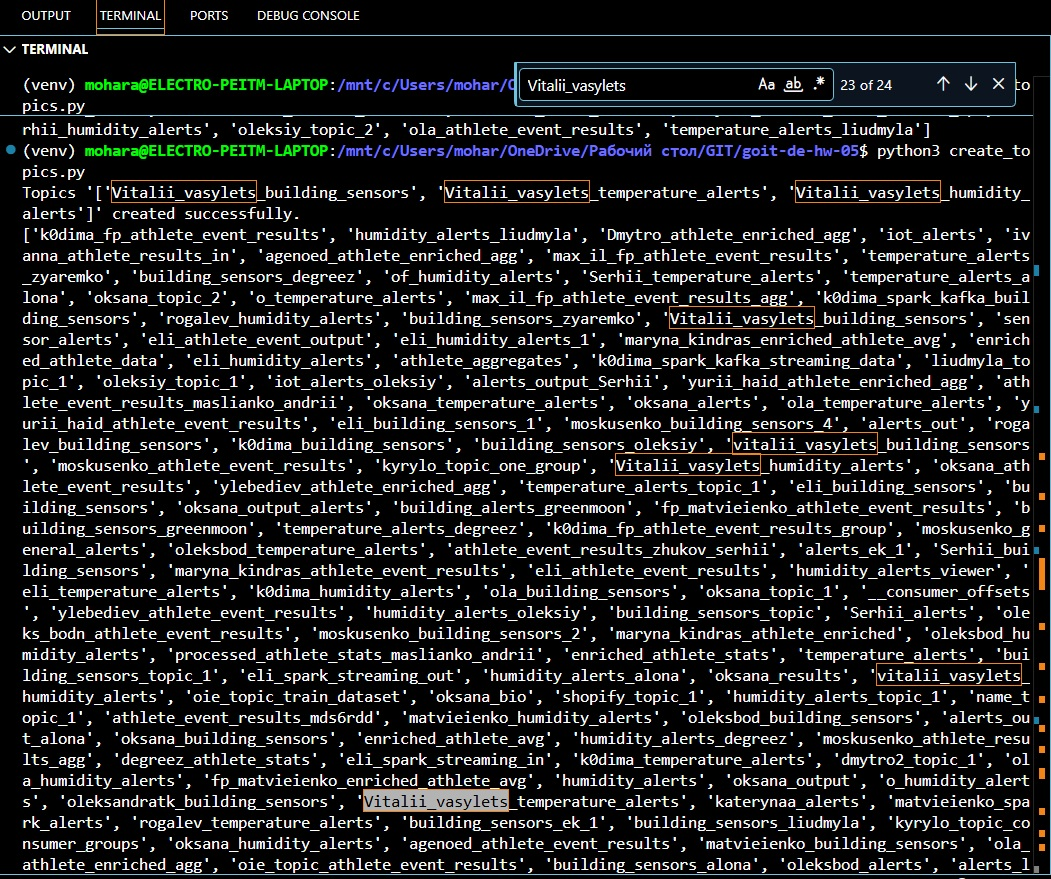
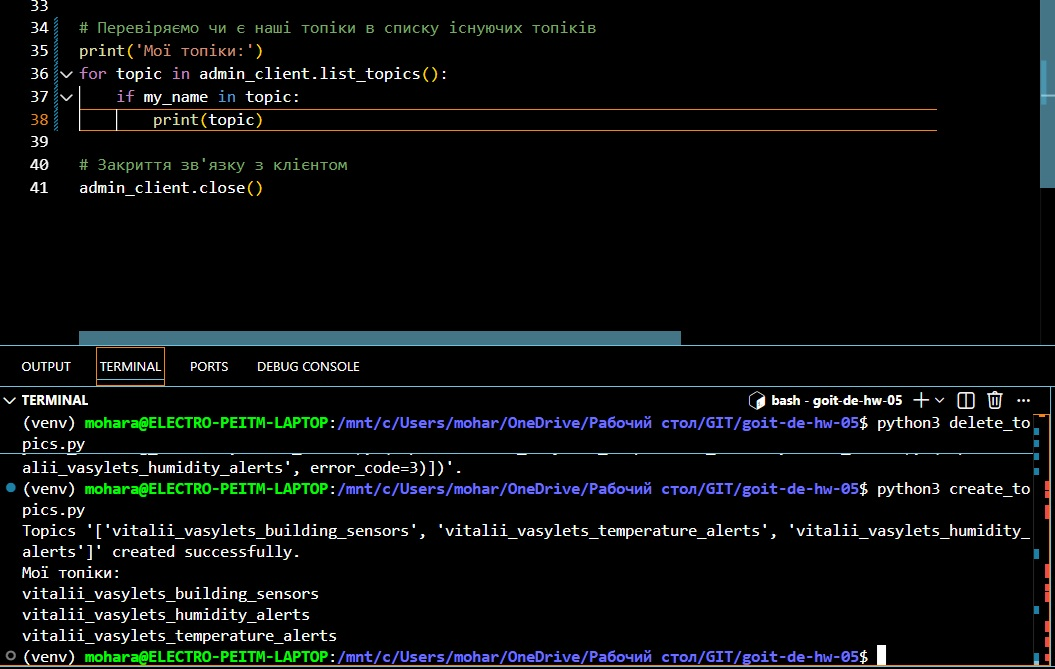
make task 2 & 3

diff --git a/sensor_consumer.py b/sensor_consumer.py
@@ -1,0 +1,80 @@
+from kafka import KafkaConsumer, KafkaProducer
+from configs import kafka_config
+import json
+import uuid
+
+# Створення Kafka Consumer
+consumer = KafkaConsumer(
+    bootstrap_servers=kafka_config['bootstrap_servers'],
+    security_protocol=kafka_config['security_protocol'],
+    sasl_mechanism=kafka_config['sasl_mechanism'],
+    sasl_plain_username=kafka_config['username'],
+    sasl_plain_password=kafka_config['password'],
+    value_deserializer=lambda v: json.loads(v.decode('utf-8')),
+    key_deserializer=lambda v: json.loads(v.decode('utf-8')),
+    auto_offset_reset='earliest',  # Зчитування повідомлень з початку
+    enable_auto_commit=True,       # Автоматичне підтвердження зчитаних повідомлень
+    group_id='my_consumer_group_3'   # Ідентифікатор групи споживачів
+)
+
+# Створення Kafka Producer
+producer = KafkaProducer(
+    bootstrap_servers=kafka_config['bootstrap_servers'],
+    security_protocol=kafka_config['security_protocol'],
+    sasl_mechanism=kafka_config['sasl_mechanism'],
+    sasl_plain_username=kafka_config['username'],
+    sasl_plain_password=kafka_config['password'],
+    value_serializer=lambda v: json.dumps(v).encode('utf-8'),
+    key_serializer=lambda v: json.dumps(v).encode('utf-8')
+)
+
+# Назва топіку
+my_name = "vitalii_vasylets"
+topic__building_sensors_name = f'{my_name}_building_sensors'
+topic_temperature_alerts_name = f'{my_name}_temperature_alerts'
+topic_humidity_alerts_name = f'{my_name}_humidity_alerts'
+
+def process_message(message):
+    try:
+        data = message.value
+
+        sensor_id = data.get('sensor_id')
+        temperature = data.get('temperature')
+        humidity = data.get('humidity')
+
+        if temperature > 40:
+            alert_data = {
+                **data,
+                "message": f"Temperature {temperature} exceeds 40 degrees Celsius"
+            }
+            producer.send(topic_temperature_alerts_name, key=str(uuid.uuid4()), value=alert_data)
+            producer.flush()
+            print(f"Alert message from sensor {sensor_id} with temperature {temperature} sent successfully.")
+    
+        if humidity < 20 or humidity > 80:
+            alert_data = {
+                **data,
+                "message": f"Humidity {humidity} exceeds 80% or reaches less than 20%"
+            }
+            producer.send(topic_humidity_alerts_name, key=str(uuid.uuid4()), value=alert_data)
+            producer.flush()
+            print(f"Alert message from sensor {sensor_id} with humidity {humidity} sent successfully.")
+
+        print(f"Message from sensor {sensor_id} with temperature {temperature} & humidity {humidity} processed successfully" )
+    except Exception as e:
+        print(f"An error occurred: {e}")
+
+# Підписка на тему
+consumer.subscribe([topic__building_sensors_name])
+
+print(f"Subscribed to topic '{topic__building_sensors_name}'")
+
+# Обробка повідомлень з топіку
+try:
+    for message in consumer:
+        process_message(message)
+except Exception as e:
+    print(f"An error occurred: {e}")
+finally:
+    consumer.close()  # Закриття consumer
+

diff --git a/sensor_producer.py b/sensor_producer.py
@@ -1,0 +1,43 @@
+from kafka import KafkaProducer
+from configs import kafka_config
+import json
+import uuid
+import time
+import random
+
+# Створення Kafka Producer
+producer = KafkaProducer(
+    bootstrap_servers=kafka_config['bootstrap_servers'],
+    security_protocol=kafka_config['security_protocol'],
+    sasl_mechanism=kafka_config['sasl_mechanism'],
+    sasl_plain_username=kafka_config['username'],
+    sasl_plain_password=kafka_config['password'],
+    value_serializer=lambda v: json.dumps(v).encode('utf-8'),
+    key_serializer=lambda v: json.dumps(v).encode('utf-8')
+)
+
+# Назва топіку
+my_name = "vitalii_vasylets"
+topic_name = f'{my_name}_building_sensors'
+
+#  Генерація id датчика
+sensor_id = int(uuid.uuid4().hex[:8], 16)
+
+for i in range(1000):
+    # Відправлення повідомлення в топік
+    try:
+        data = {
+            "sensor_id":sensor_id,
+            "timestamp": time.time(),  # Часова мітка
+            "temperature": random.randint(25, 45),  # Випадкове значення температури
+            "humidity": random.randint(15, 85)  # Випадкове значення вологості
+        }
+        producer.send(topic_name, key=str(uuid.uuid4()), value=data)
+        producer.flush()
+        print(f"Sensor {sensor_id} sent to topic '{topic_name}' the data package № {i} successfully.")
+        time.sleep(2)
+    except Exception as e:
+        print(f"An error occurred: {e}")
+
+producer.close()  # Закриття producer
+

diff --git a/delete_topics.py b/delete_topics.py
@@ -1,0 +1,29 @@
+from kafka.admin import KafkaAdminClient
+from configs import kafka_config
+
+# Створення клієнта
+admin_client = KafkaAdminClient(
+    bootstrap_servers=kafka_config['bootstrap_servers'],
+    security_protocol=kafka_config['security_protocol'],
+    sasl_mechanism=kafka_config['sasl_mechanism'],
+    sasl_plain_username=kafka_config['username'],
+    sasl_plain_password=kafka_config['password']
+)
+
+# Список топіків, які ви хочете видалити
+my_name = "vitalii_vasylets"
+topics_to_delete = [
+    f'{my_name}_building_sensors',
+    f'{my_name}_temperature_alerts',
+    f'{my_name}_humidity_alerts'
+]
+
+try:
+    # Видалення топіків
+    admin_client.delete_topics(topics=topics_to_delete)
+    print(f"Топіки {topics_to_delete} успішно видалено.")
+except Exception as e:
+    print(f"Помилка при видаленні: {e}")
+
+# Закриття клієнта
+admin_client.close()

diff --git a/create_topics.py b/create_topics.py
@@ -11,8 +11,12 @@ admin_client = KafkaAdminClient(
 )
 
 # Визначення нових топіків
-my_name = "Vitalii_vasylets"
-topic_names = [f'{my_name}_building_sensors',f'{my_name}_temperature_alerts',f'{my_name}_humidity_alerts']
+my_name = "vitalii_vasylets"
+topic_names = [
+    f'{my_name}_building_sensors',
+    f'{my_name}_temperature_alerts',
+    f'{my_name}_humidity_alerts'
+]
 num_partitions = 2
 replication_factor = 1
 
@@ -27,8 +31,11 @@ try:
 except Exception as e:
     print(f"An error occurred: {e}")
 
-# Перевіряємо список існуючих топіків 
-print(admin_client.list_topics())
+# Перевіряємо чи є наші топіки в списку існуючих топіків 
+print('Мої топіки:')
+for topic in admin_client.list_topics():
+    if my_name in topic:
+        print(topic)
 
 # Закриття зв'язку з клієнтом
 admin_client.close()
